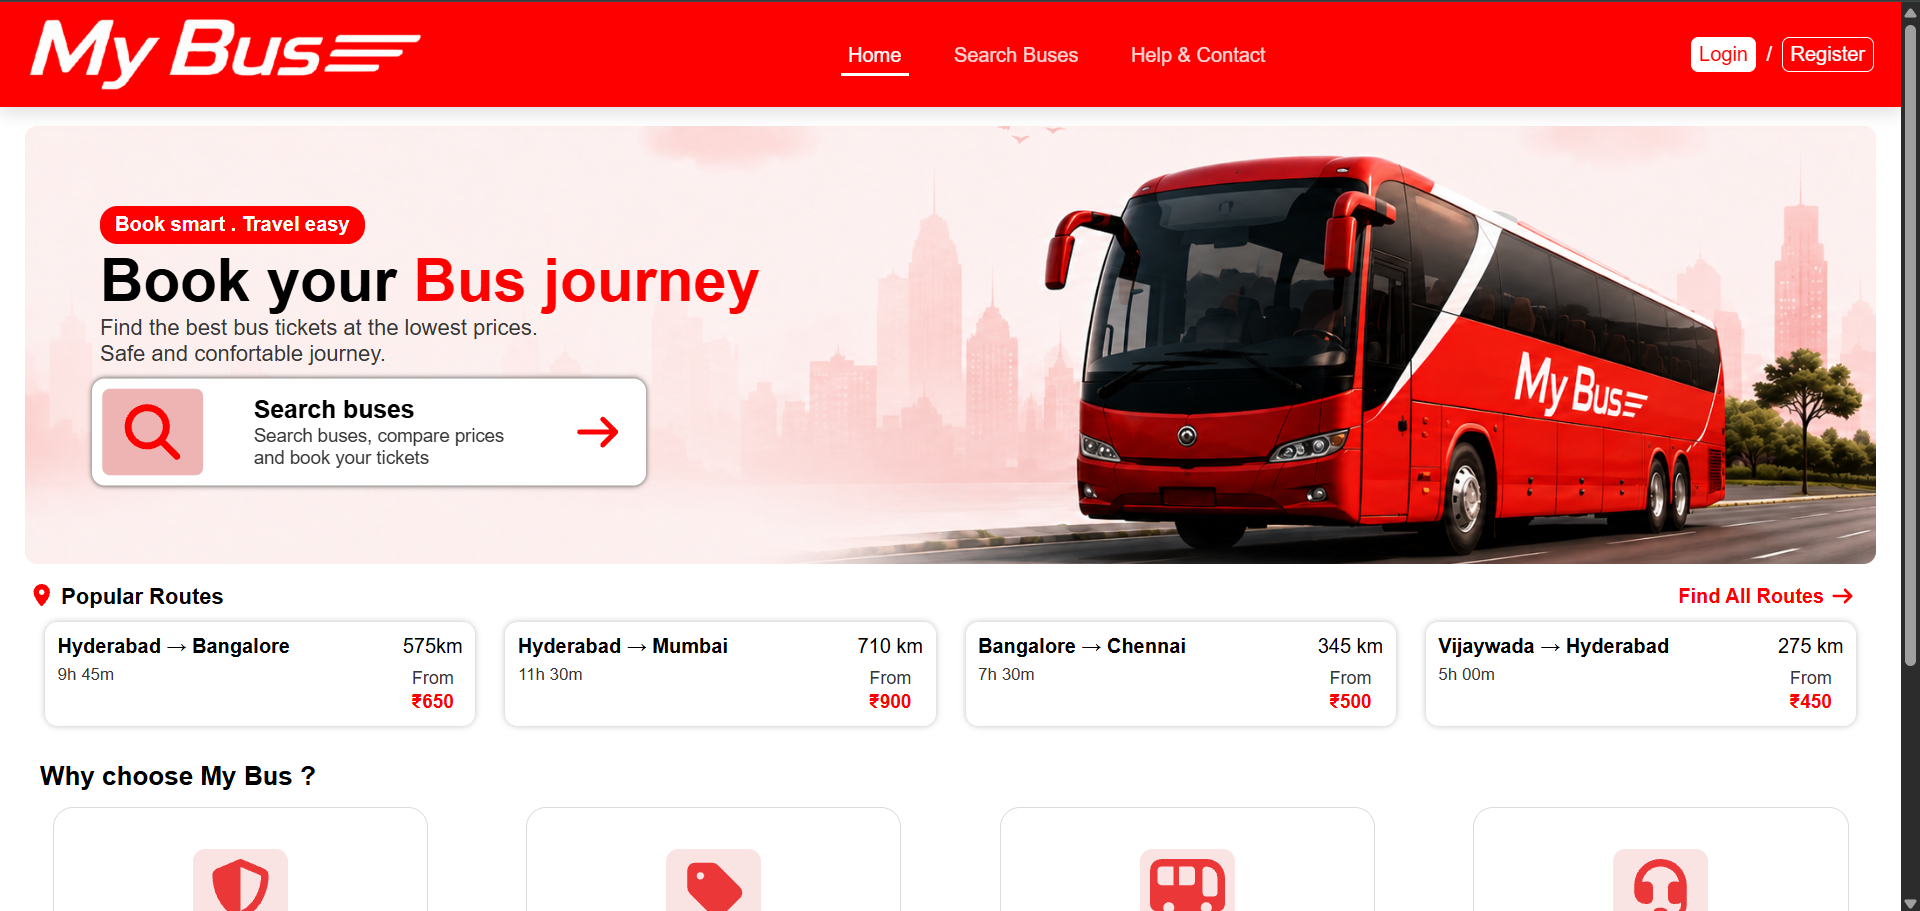
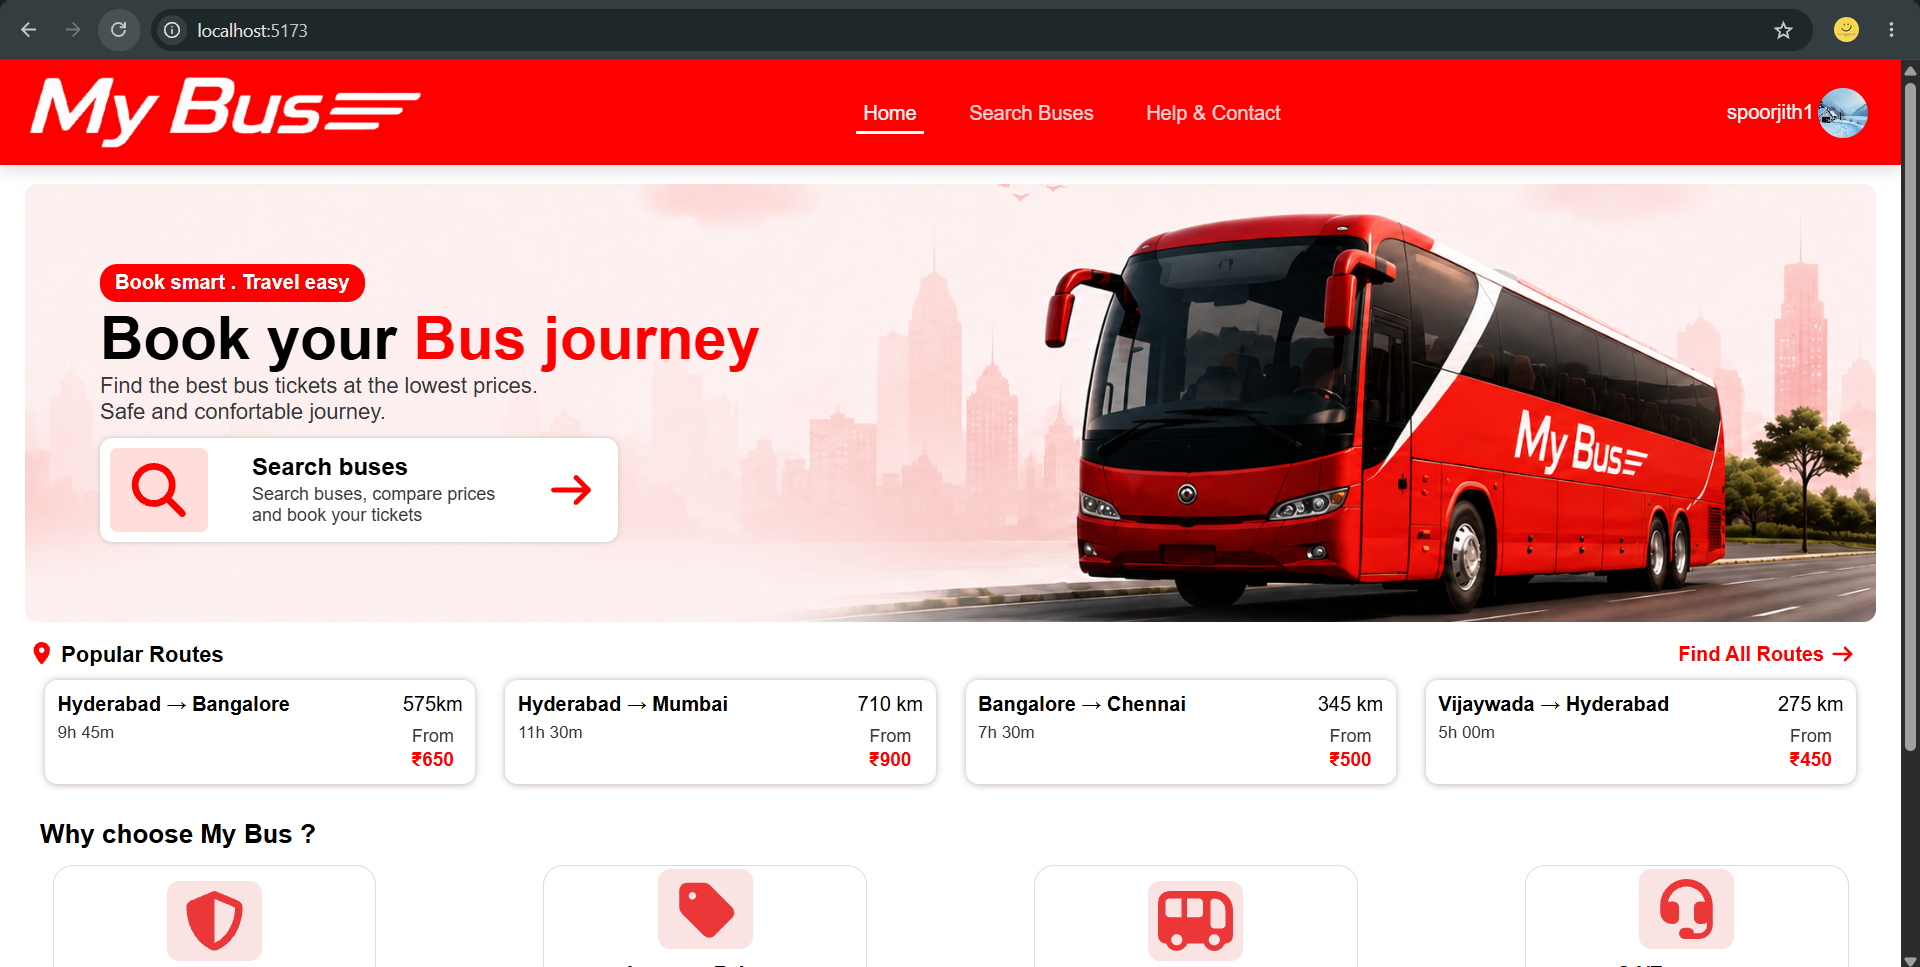
screenshots

diff --git a/frontend-react/src/data/projects.js b/frontend-react/src/data/projects.js
@@ -18,7 +18,7 @@ const projects = [
     tech: ["Django", "DRF", "React.js", "PostgreSQL"],
 
     image:
-      "/clickmart/clickmart000.png",
+      "/clickmart/clickmart0.png",
 
     images: [
       "/clickmart/clickmart1.png",
@@ -39,34 +39,42 @@ const projects = [
   {
     id: 2,
       title: "Bus ticket Booking - GoBus",
-      description: "Full-stack web applicaiton for Bus ticket booking",
+      description: "Bus Ticket booking application built using Django REST Framework. Features include role-based access, searching, ticket booking...",
       
       details:
-        "A scalable backend system built using Django and DRF.",
+        "Full stack wbe application built using Django REST Framework and react.js. The application is developed securely using REST APIs for role based authorization for customers, operators and administration. A user can search & filter schedules, select seats of there comfort, easy ticket booking process, user can access there booking history. An operator can add buses and create schedules to there belonging buses. Admin can create routes and operators.",
 
       features: [
         "JWT Authentication",
-        "Admin Dashboard",
-        "travel & ticket history",
-        "Secure API endpoints"
+        "Role-based Dashboards",
+        "Searching and filtering schedules",
+        "Seat selection",
+        "booking history",
+        "easy payment process",
+        "RESTful APIs"
       ],
 
-      tech: ["Django", "DRF", "React.js", "PostgreSQL"],
+      tech: ["Django", "DRF", "React.js", "MySQL"],
 
       image:
         "/btb/btb1.png",
 
       images: [
+        "/btb/btb1.png",
         "/btb/btb2.png",
         "/btb/btb3.png",
-        "/btb/btb4.png",
-        "/btb/btb5.png",
-        "/btb/btb6.png",
-        "/btb/btb7.png",
-        "/btb/btb8.png",
-        "/btb/btb9.png",
-        "/btb/btb10.png",
-        "/btb/btb11.png"
+        "/btb/btbC1.png",
+        "/btb/btbC2.png",
+        "/btb/btbC3.png",
+        "/btb/btbC4.png",
+        "/btb/btbC5.png",
+        "/btb/btbC6.png",
+        "/btb/btbA1.png",
+        "/btb/btbA2.png",
+        "/btb/btbA3.png",
+        "/btb/btbO1.png",
+        "/btb/btbO2.png",
+        "/btb/btbO3.png",
       ],
 
       github: "https://github.com/spoorjith1/Bus_ticket_booking-GoBus",
@@ -114,7 +122,7 @@ const projects = [
   {
     id: 4,
     title: "Chat App",
-    description: "Real-time private messaging application built using Django Channels, DRF and React.",
+    description: "Real-time private messaging application built using Django, DRF and React.js.",
 
     details:
       "Using Django-DRF and django channels, search-filters and react for frontend built an chatting application where a user can login and send friend requests to other users and can chat with them one-one privately.",

diff --git a/frontend-react/src/components/sections/Skills.jsx b/frontend-react/src/components/sections/Skills.jsx
@@ -16,7 +16,7 @@ function Skills() {
                 <span>HTML</span>
                 <span>CSS</span>
                 <span>JavaScript</span>
-                <span>React</span>
+                <span>React.js</span>
                 <span>Bootstrap</span>
               </div>
             </div>
@@ -28,9 +28,9 @@ function Skills() {
               <div className="skills-list">
                 <span>Python</span>
                 <span>Django</span>
-                <span>DRF</span>
+                <span>Django REST Framework</span>
                 <span>REST APIs</span>
-                <span>Flask (Basics)</span>
+                <span>JWT Authentication</span>
                 <span>Numpy, pandas, matlpotlib (Basics)</span>
               </div>
             </div>
@@ -43,7 +43,7 @@ function Skills() {
                 <span>SQL</span>
                 <span>MySQL</span>
                 <span>PostgreSQL</span>
-                <span>Postman</span>
+                <span>Postman API</span>
                 <span>VS Code</span>
               </div>
             </div>
